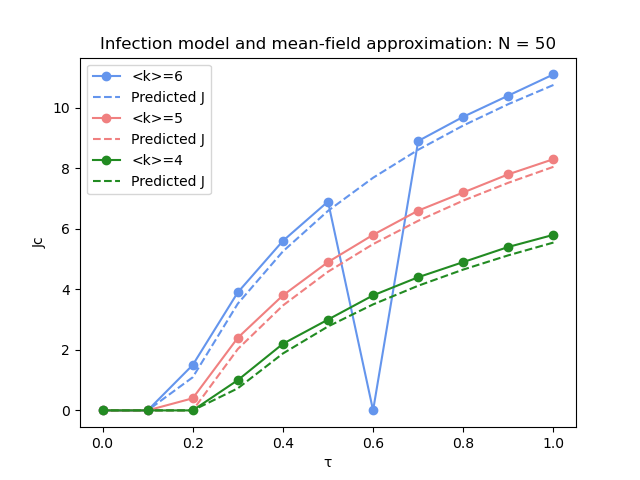
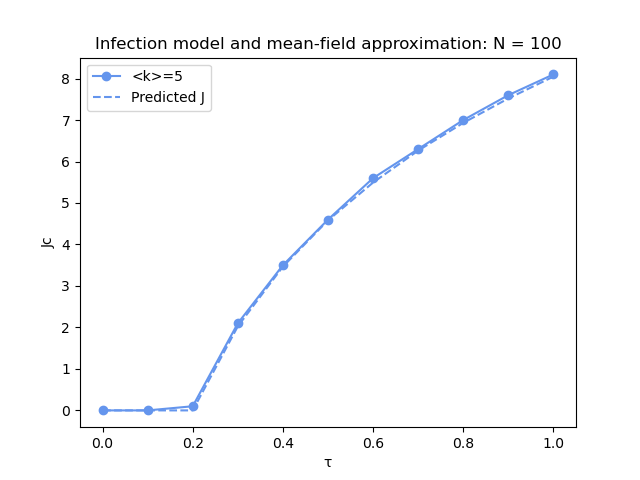
add general test for different type of graphs

diff --git a/src/mean_field.py b/src/mean_field.py
@@ -1,3 +1,4 @@
+import numpy as np
 import scipy
 
 from src.infection import infected_prob
@@ -15,11 +16,8 @@ def simulated_mean_field_infection(k: int, tau: float, c: float, T: int, J: floa
     :param J: perception risk
     :return: return of the percentage of infected nodes
     """
-    # FIXME: nan values from the scipy.special.binom and pow functions?
-    for _ in range(T):
-        # binoms = [scipy.special.binom(k, s) for s in range(1, k + 1)]
-        # infected_probs = [infected_prob(s, k, tau, J) for s in range(1, k + 1)]
-        # pows = [pow(c, s) * pow(1 - c, k - s) for s in range(1, k + 1)]
-        c = sum(scipy.special.binom(k, s) * pow(c, s) * pow(1 - c, k - s) * s * infected_prob(s, k, tau, J)
-                for s in range(1, k + 1))
+    # NOTFIXME: negative values from the pow function?
+    for t in range(T):
+        c = sum(scipy.special.binom(k, s) * (c ** s) * ((1 - c) ** (k - s)) * s * infected_prob(s, k, tau, J) for s in
+                range(k))
     return c

diff --git a/src/tests.py b/src/tests.py
@@ -1,3 +1,5 @@
+import math
+
 import numpy as np
 import networkx as nx
 
@@ -35,9 +37,10 @@ def mean_field_jc_test(k: int,
         jc_pred = get_critical_j(k, t)
         print(f"MF-Critical J prediction: {jc_pred}")
         for j in js:
-            print(f"t: {round(t,2)}, j: {round(j,2)}")
+            print(f"t: {round(t,2)}, j: {round(j,2)}", end="")
             v = simulated_mean_field_infection(k, t, c, T, j)
-            if v <= zero_threshold:
+            print(f" Valore di c: {v}")
+            if zero_threshold >= v >= 0:
                 results[t_test].append(t)
                 results[j_test].append(j)
                 results[j_pred].append(jc_pred if jc_pred > 0 else 0)

diff --git a/src/config.py b/src/config.py
@@ -11,13 +11,13 @@ iterations = 1000  # Iteration
 zero_threshold = 1e-4  # Zero threshold
 
 # Values for the graph
-n_nodes = 50  # Number of nodes
+n_nodes = 100  # Number of nodes
 k = 6  # Number of edges to attach from a new node
 prob_k = k / n_nodes  # Probability for random graph
 
 # Values for the infection
-init_infect = 5  # Initial infected nodes
-perc_init_infect = 0.1  # Initial percentage of infected nodes
+init_infect = 10  # Initial infected nodes
+perc_init_infect = init_infect / n_nodes  # Initial percentage of infected nodes
 
 immunity = healthy  # Immunity
 rec_prob = 0.1  # Recovery probability

diff --git a/main.py b/main.py
@@ -33,8 +33,8 @@ def mean_field_test():
 
     # RANDOM GRAPH WITH K = 6
     kk = 6
-    graph_type = "<k>=" + str(k)
-    result = mean_field_jc_test(k, perc_init_infect, iterations, ts, js)
+    graph_type = "<k>=" + str(kk)
+    result = mean_field_jc_test(kk, perc_init_infect, iterations, ts, js)
     results[graph_type] = result
 
     # RANDOM GRAPH WITH K = 5
